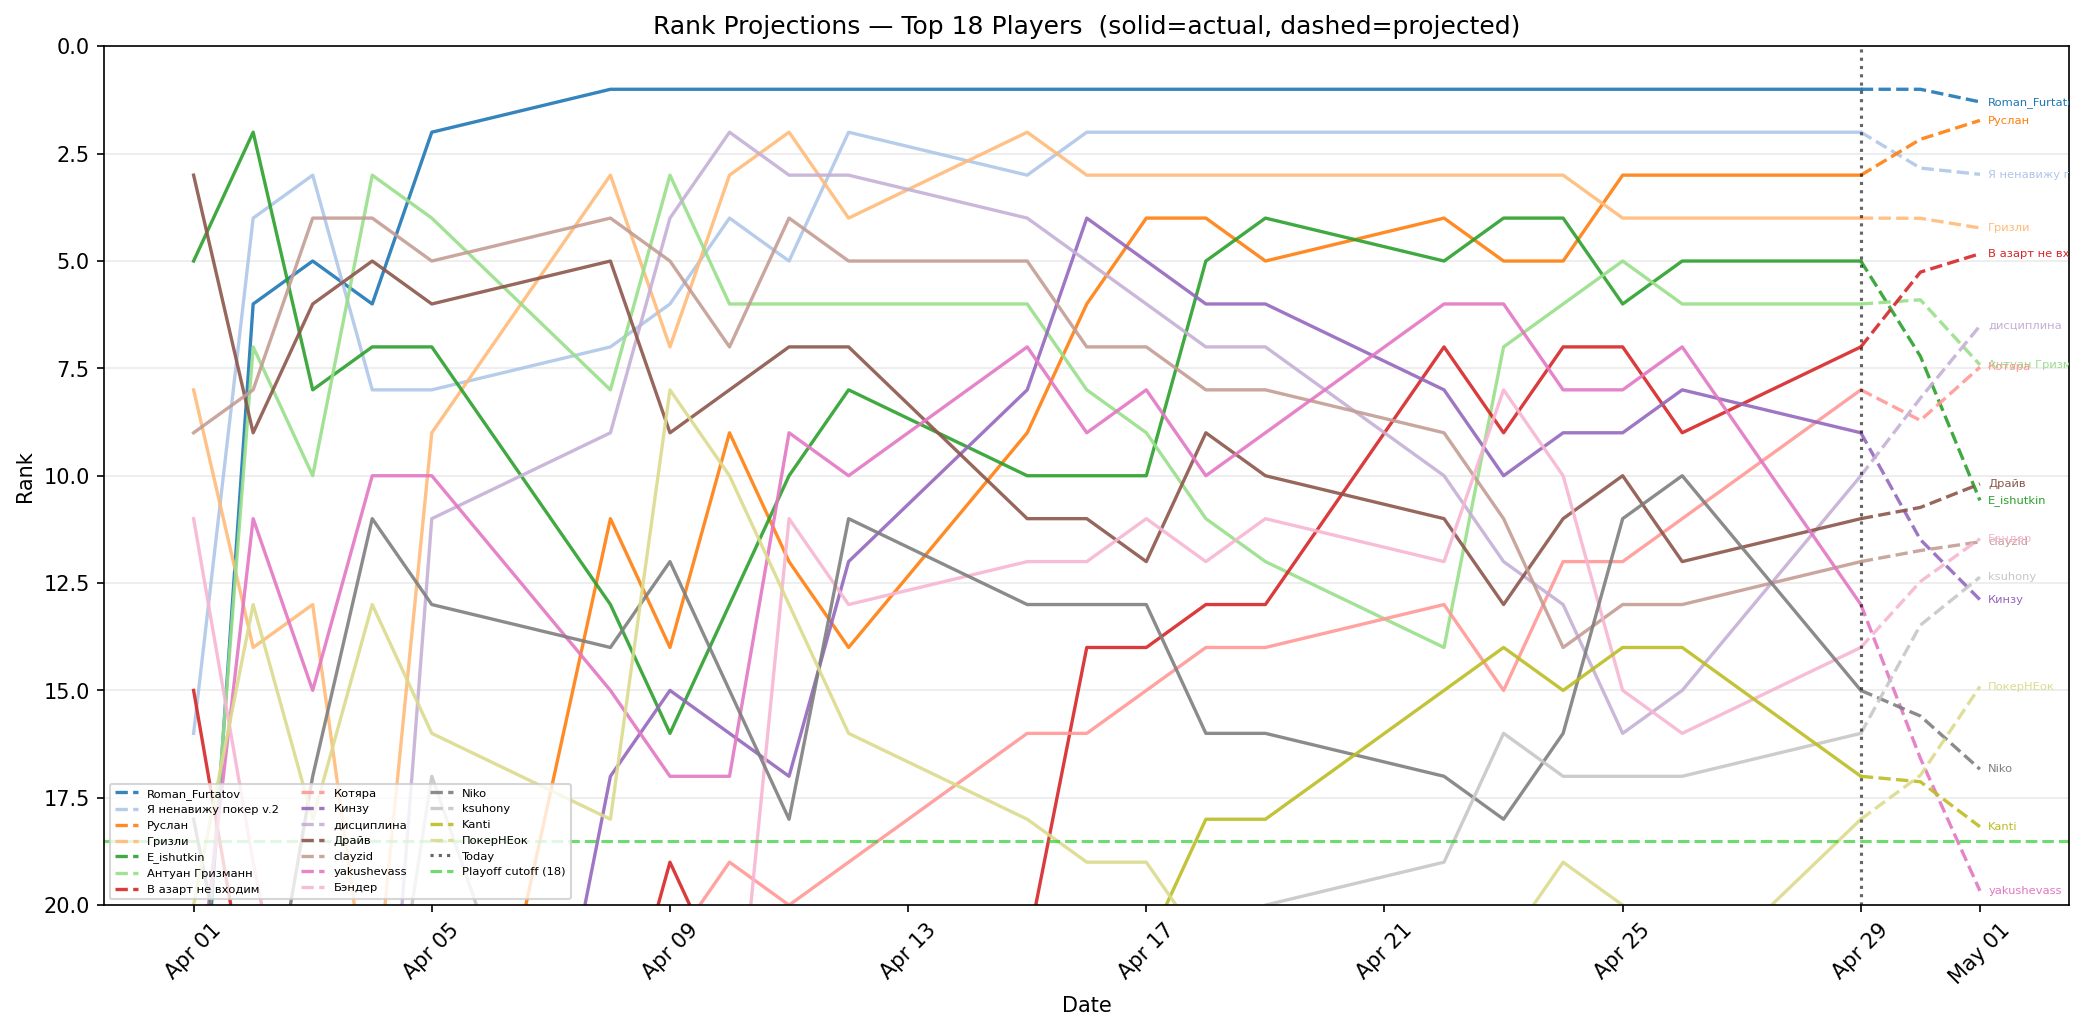
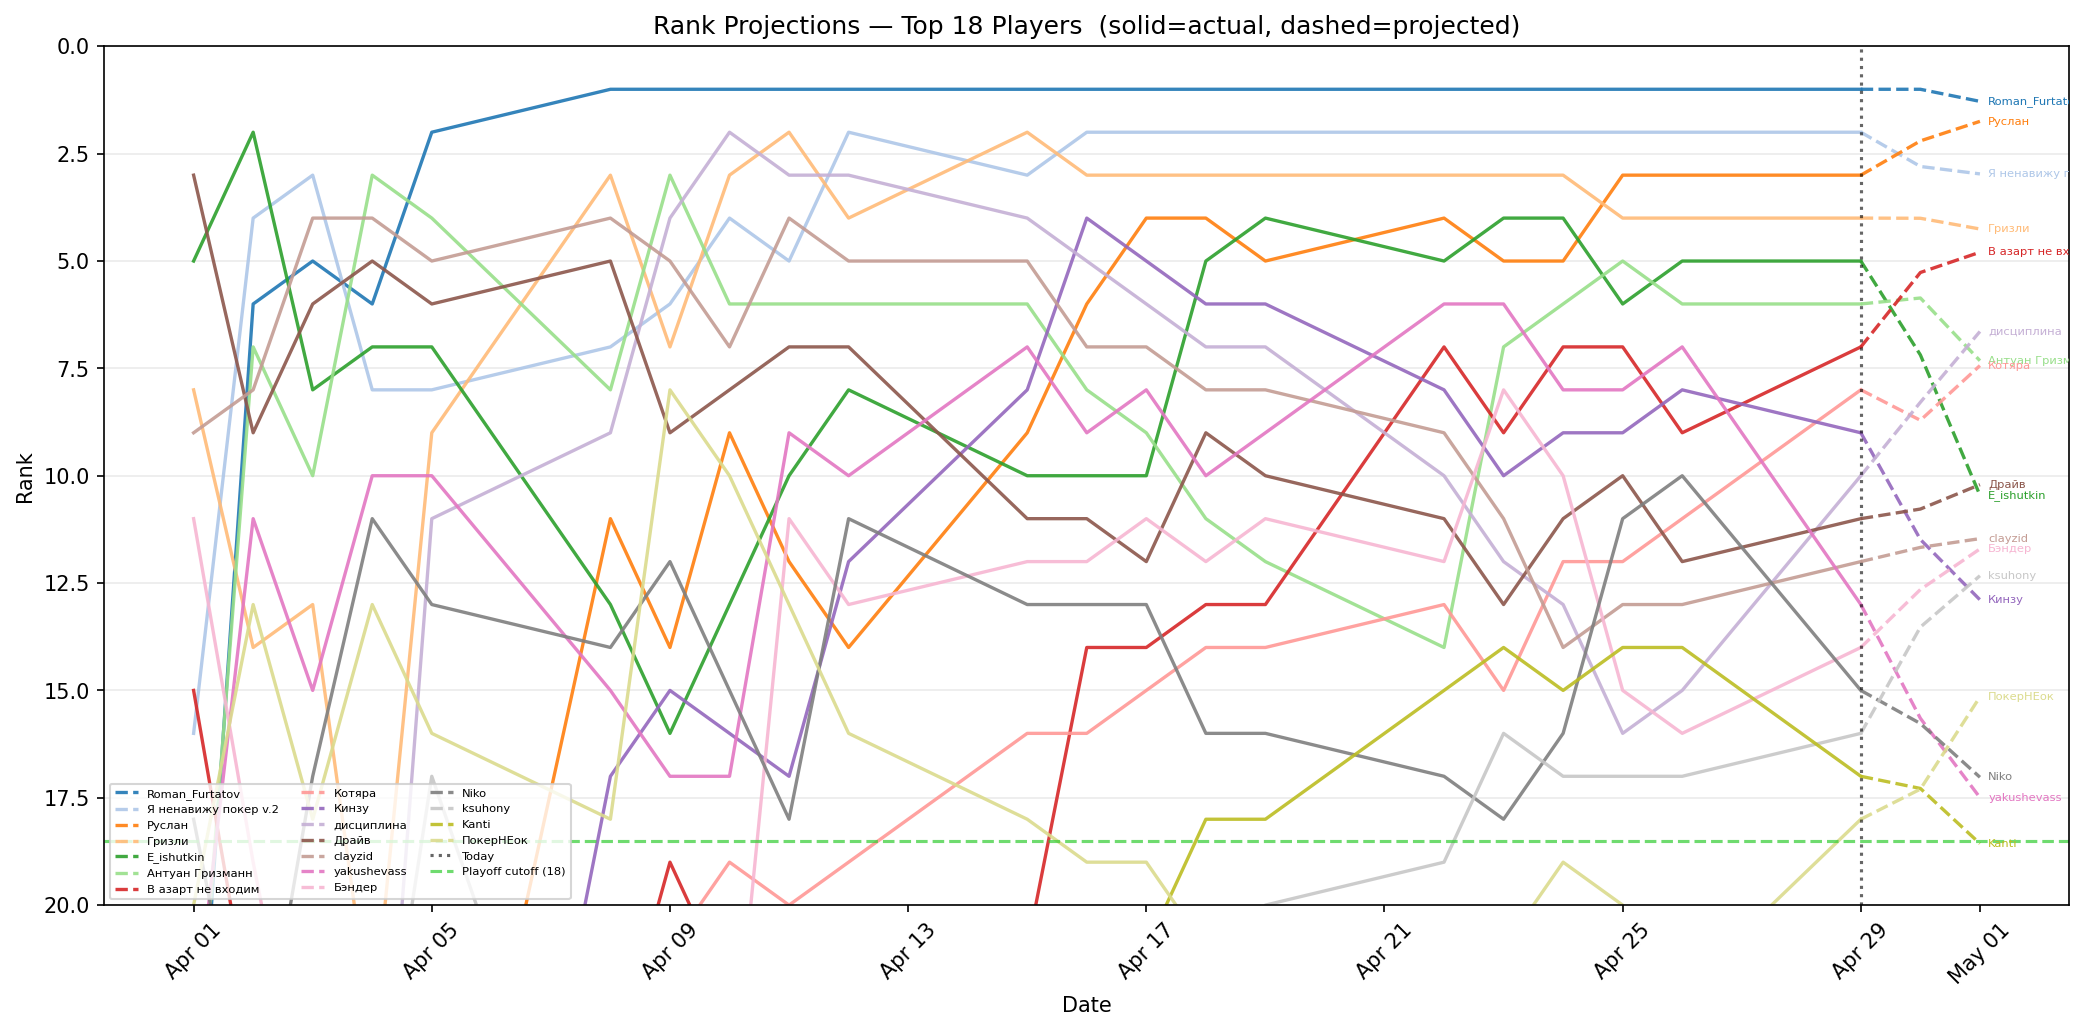
inactive players update

diff --git a/main.py b/main.py
@@ -21,9 +21,9 @@ from plots import (
 
 # ── CONFIG ────────────────────────────────────────────────────────────────────
 PLAYER_TO_TRACK  = 'Антуан Гризманн'
-INACTIVE_PLAYERS = ['Дядя Витя', 'Кесадилия', 'E_ishutkin', 'yakushevass']
+INACTIVE_PLAYERS = ['Дядя Витя', 'Кесадилия', 'Комарик', 'E_ishutkin']
 N_SIM            = 1000
-NOISE_STD        = 200     # higher spread → more realistic Monte Carlo variance
+NOISE_STD        = 200
 EVAL_POOL        = 100
 TOP_N_RANK_PLOT  = 18
 # ─────────────────────────────────────────────────────────────────────────────
@@ -32,7 +32,6 @@ TOP_N_RANK_PLOT  = 18
 # ── Helpers ───────────────────────────────────────────────────────────────────
 
 def get_actual_rank_path(df, player_id):
-    """Return list of {'date', 'rank'} using actual cumulative data."""
     df = df.copy()
     df['date'] = pd.to_datetime(df['date'])
     all_dates = sorted(df['date'].unique())
